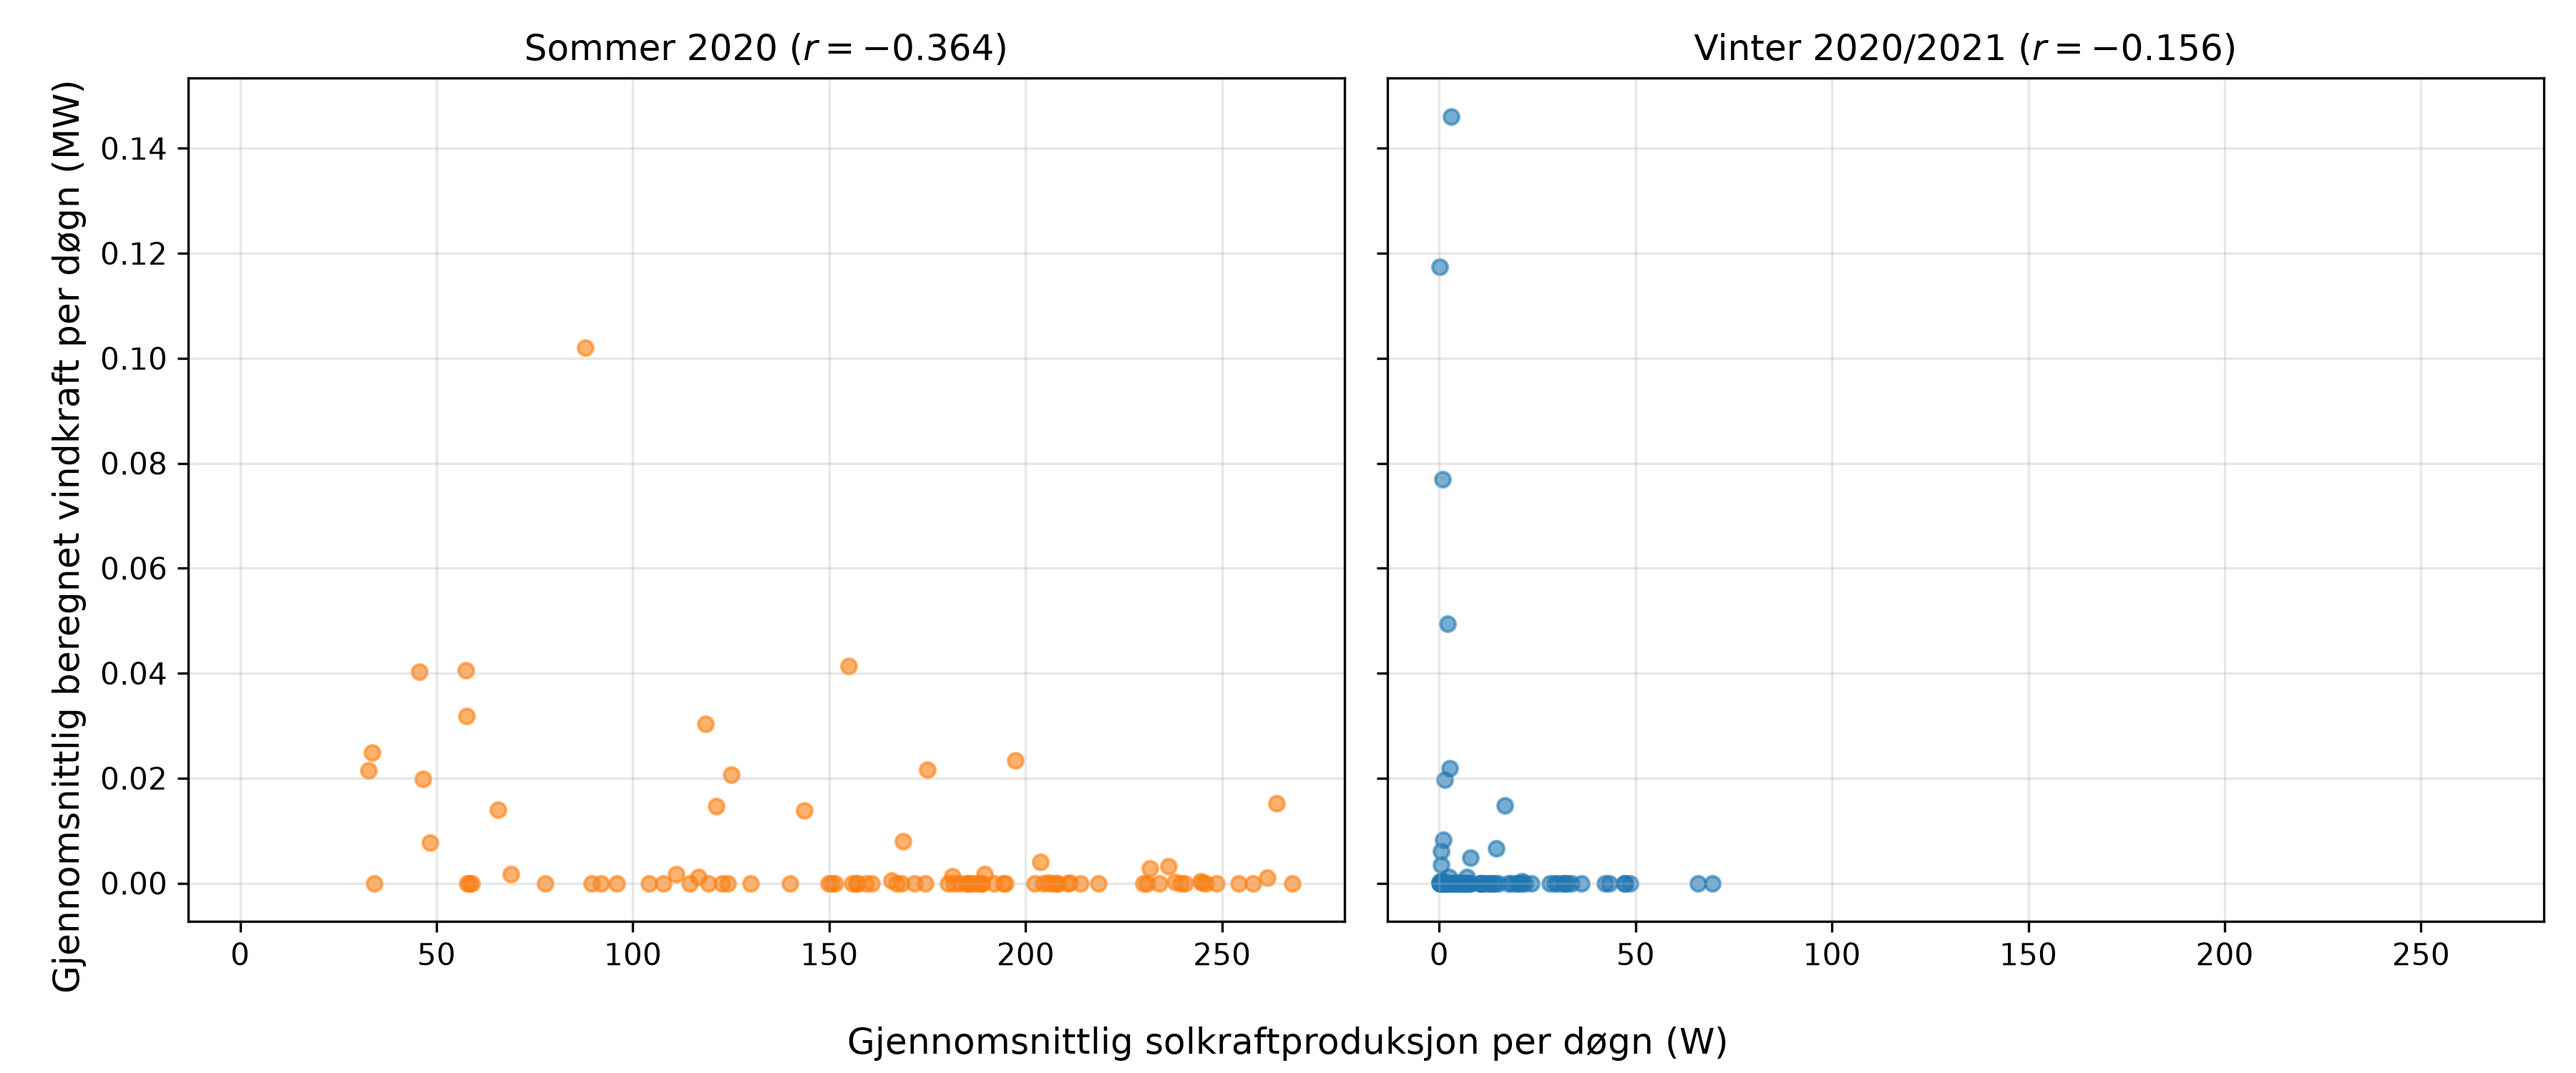
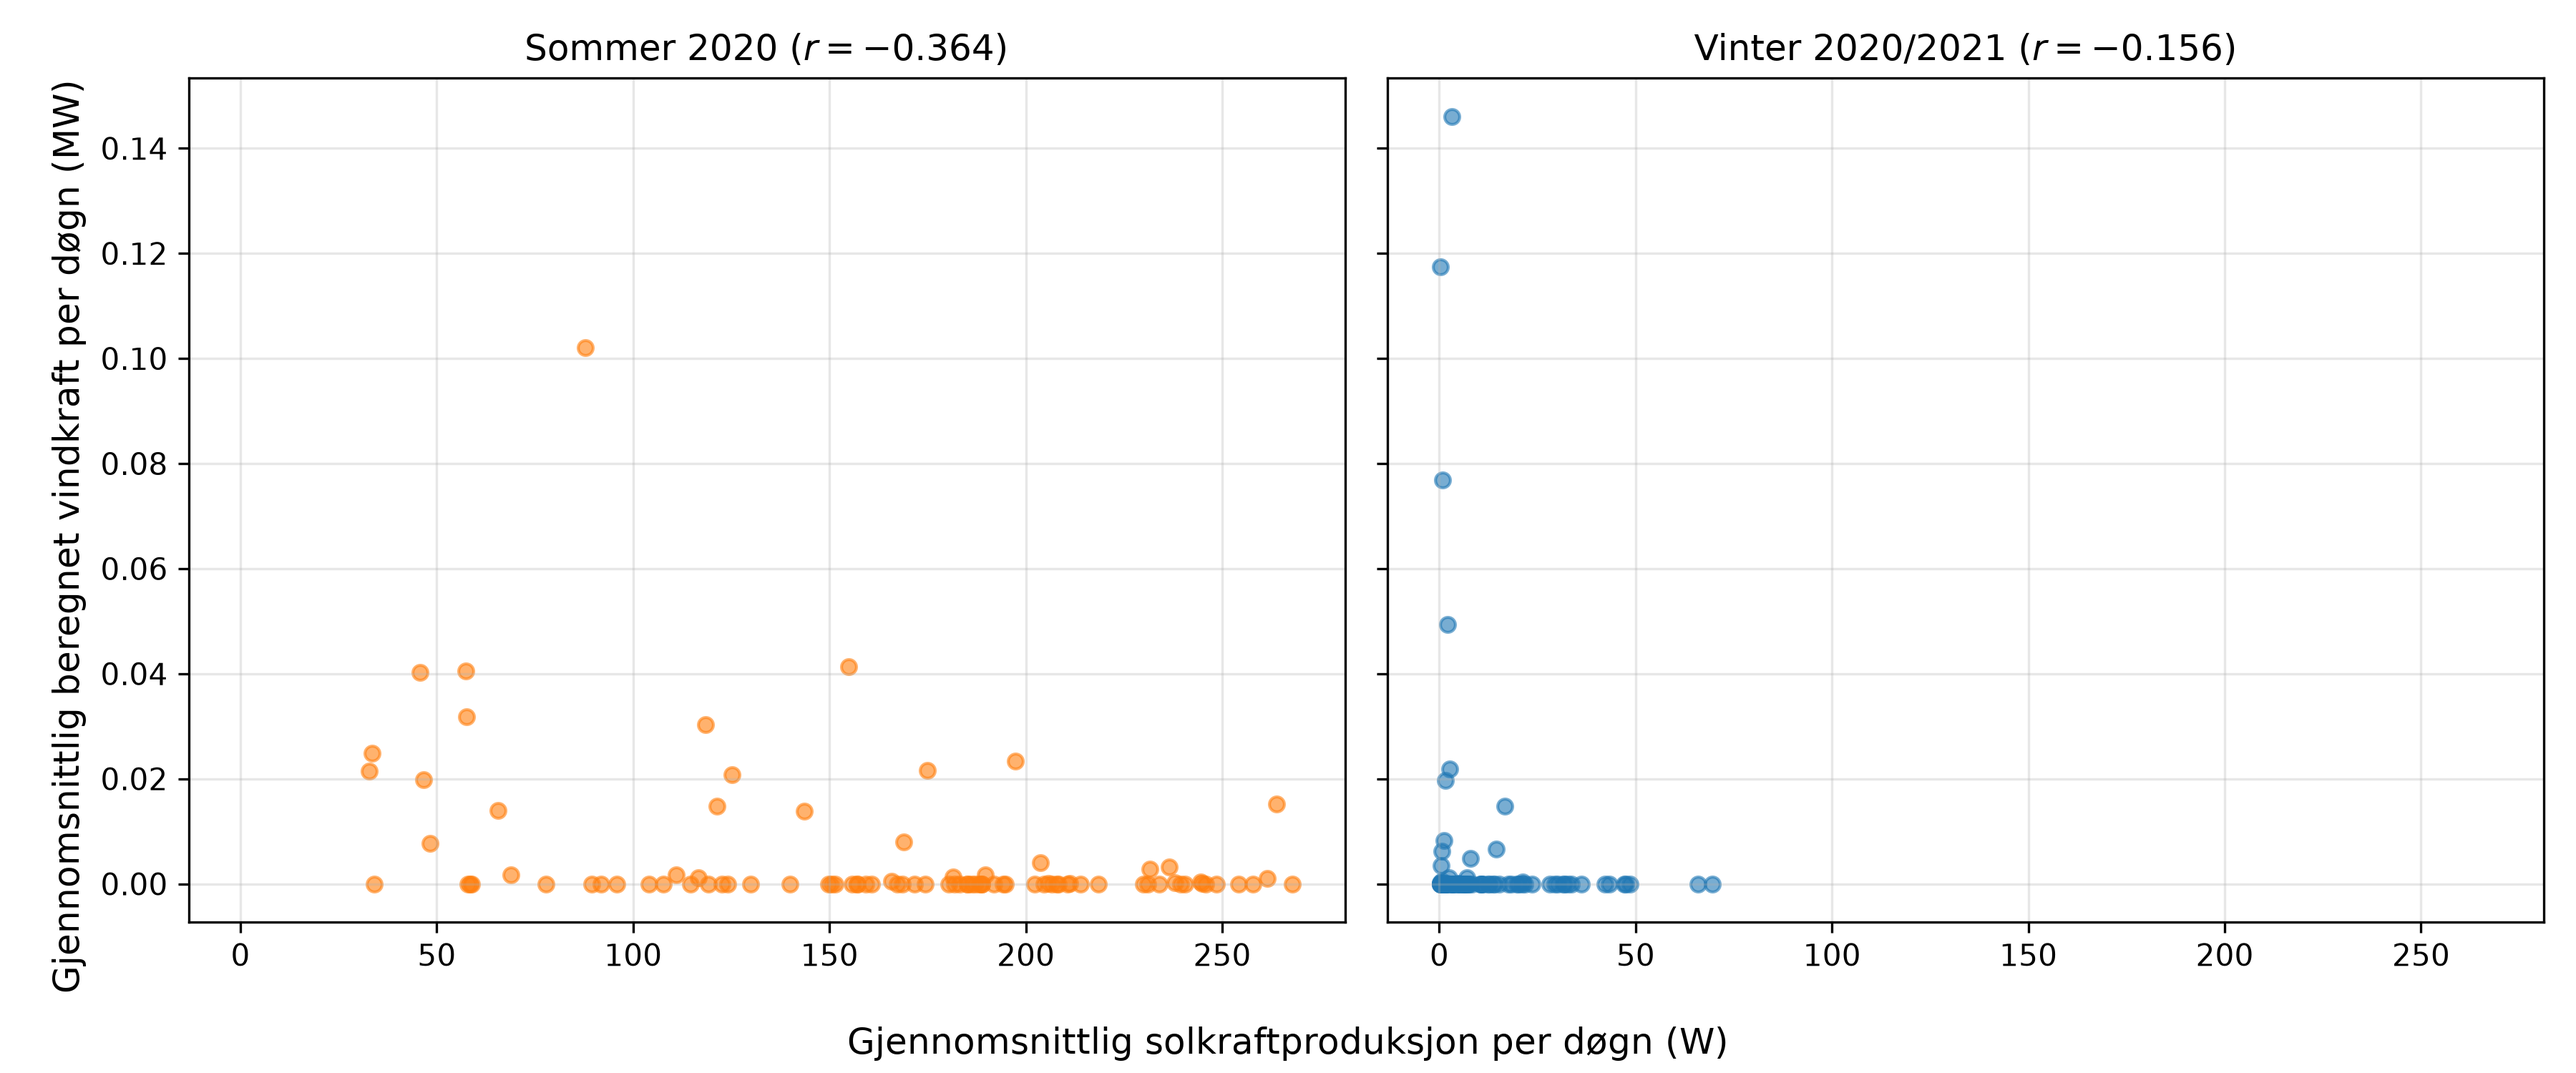
La til 10% vindhastighet

diff --git a/Prosjekt-ELK330/10%-hoyere-vind.py b/Prosjekt-ELK330/10%-hoyere-vind.py
@@ -1,0 +1,367 @@
+import pandas as pd
+import matplotlib.pyplot as plt
+
+
+# Leser inn PVGIS-data
+pvgis = pd.read_csv(
+    "PVGISBlindern2018-2021.csv",
+    skiprows=10,
+    engine="python"
+)
+
+
+# Beholder kun rader der time-kolonnen faktisk inneholder dato
+pvgis = pvgis[
+    pvgis["time"].astype(str).str.match(r"^\d{8}:\d{4}$")
+].copy()
+
+
+# Konverterer tidspunkt
+pvgis["time"] = pd.to_datetime(
+    pvgis["time"],
+    format="%Y%m%d:%H%M"
+)
+
+pvgis = pvgis.set_index("time")
+
+
+# PVGIS-tidspunktene behandles som UTC
+pvgis.index = pvgis.index.tz_localize("UTC")
+
+
+# Rund av til nærmeste hele time
+pvgis.index = pvgis.index.round("h")
+
+# Konverterer PV power til numeriske verdier
+pvgis["P"] = pd.to_numeric(pvgis["P"], errors="coerce")
+pvgis[["P"]].to_csv("solkraft_klargjort.csv")
+# Konverterer vindhastighet til numeriske verdier
+pvgis["WS10m"] = pd.to_numeric(pvgis["WS10m"], errors="coerce")
+
+
+
+# Parametere for vindturbin
+P_nominell = 3       # MW
+v_start = 3          # m/s
+v_nominell = 12      # m/s
+v_stopp = 25         # m/s
+
+
+# Beregner vindkraftproduksjon
+def vindkraft(v):
+
+    if pd.isna(v):
+        return float("nan")
+
+    if v < v_start:
+        return 0
+
+    elif v < v_nominell:
+        return P_nominell * (
+            (v**3 - v_start**3) /
+            (v_nominell**3 - v_start**3)
+        )
+
+    elif v <= v_stopp:
+        return P_nominell
+
+    else:
+        return 0
+
+
+vind_MW = pvgis["WS10m"].apply(vindkraft)
+vind_MW_pluss10 = (pvgis["WS10m"] * 1.10).apply(vindkraft)
+
+# Samler solinnstråling og vindkraft i ett datasett
+data = pd.concat(
+    [
+        pvgis["P"] / 1_000_000,
+        vind_MW,
+        vind_MW_pluss10
+    ],
+    axis=1,
+    keys=["Solkraftproduksjon", "Vindkraft", "Vindkraft_pluss10"]
+)
+
+
+# Sørger for at begge kolonnene inneholder tall
+data["Solkraftproduksjon"] = pd.to_numeric(
+    data["Solkraftproduksjon"],
+    errors="coerce"
+)
+
+data["Vindkraft"] = pd.to_numeric(
+    data["Vindkraft"],
+    errors="coerce"
+)
+
+
+# Fjerner manglende verdier
+data = data.dropna()
+
+
+# Kontrollerer datasettet
+print("\n--- Datakontroll ---")
+
+print("Antall observasjoner:", len(data))
+
+print("Antall manglende verdier:")
+print(data.isna().sum())
+
+print(
+    "Antall dupliserte tidspunkter:",
+    data.index.duplicated().sum()
+)
+
+print("Første tidspunkt:", data.index.min())
+print("Siste tidspunkt:", data.index.max())
+
+
+# Beregner korrelasjon for timesverdier
+korrelasjon_time = data["Solkraftproduksjon"].corr(
+    data["Vindkraft"]
+)
+
+print("\n--- Korrelasjon per time ---")
+print(korrelasjon_time)
+
+korrelasjon_time_pluss10 = data["Solkraftproduksjon"].corr(
+    data["Vindkraft_pluss10"]
+)
+
+print(f"Korrelasjon for opprinnelig vindhastighet: r = {korrelasjon_time:.4f}")
+print(f"Korrelasjon for 10 % høyere vindhastighet: r = {korrelasjon_time_pluss10:.4f}")
+print(f"Endring i r: {korrelasjon_time_pluss10 - korrelasjon_time:+.4f}")
+
+# Beregner daglig gjennomsnitt
+daglig_data = data.resample("D").mean()
+
+# Fjerner dager uten målinger
+daglig_data = daglig_data.dropna()
+daglig_data = data.resample("D").mean()
+
+antall_timer = data.resample("D").count()
+
+daglig_data = daglig_data[
+    (antall_timer["Solkraftproduksjon"] >= 18) &
+    (antall_timer["Vindkraft"] >= 18)
+]
+
+print("\n--- Daglige målinger ---")
+print(daglig_data.head())
+
+print("Antall dager:", len(daglig_data))
+
+
+# Beregner korrelasjon for dagsverdier
+korrelasjon_daglig = daglig_data["Solkraftproduksjon"].corr(
+    daglig_data["Vindkraft"]
+)
+
+print("\nDaglig korrelasjon:", korrelasjon_daglig)
+
+korrelasjon_daglig_pluss10 = daglig_data["Solkraftproduksjon"].corr(
+    daglig_data["Vindkraft_pluss10"]
+)
+
+print(f"Korrelasjon for opprinnelig vindhastighet: r = {korrelasjon_daglig:.4f}")
+print(f"Korrelasjon for 10 % høyere vindhastighet: r = {korrelasjon_daglig_pluss10:.4f}")
+print(f"Endring i r: {korrelasjon_daglig_pluss10 - korrelasjon_daglig:+.4f}")
+
+sommer = daglig_data.loc["2020-06-01":"2020-08-31"]
+vinter = daglig_data.loc["2020-12-01":"2021-02-28"]
+
+korrelasjon_sommer = sommer["Solkraftproduksjon"].corr(sommer["Vindkraft"])
+korrelasjon_vinter = vinter["Solkraftproduksjon"].corr(vinter["Vindkraft"])
+
+print(f"Sommer 2020: r = {korrelasjon_sommer:.3f} ({len(sommer)} dager)")
+print(f"Vinter 2020/2021: r = {korrelasjon_vinter:.3f} ({len(vinter)} dager)")
+
+# standardavvik for sommer og vinter
+standardavvik_sommer = sommer[["Solkraftproduksjon", "Vindkraft"]].std()
+standardavvik_vinter = vinter[["Solkraftproduksjon", "Vindkraft"]].std()
+
+print(f"Sommer 2020: Standardavvik = {standardavvik_sommer}")
+print(f"Vinter 2020/2021: Standardavvik = {standardavvik_vinter}")
+
+fig, (ax_sommer, ax_vinter) = plt.subplots(
+    1, 2, figsize=(12, 5), sharex=True, sharey=True
+)
+
+ax_sommer.scatter(
+    sommer["Solkraftproduksjon"] * 1_000_000,
+    sommer["Vindkraft"],
+    color="tab:orange",
+    alpha=0.6,
+    s=25
+)
+ax_sommer.set_title(f"Sommer 2020 ($r = {korrelasjon_sommer:.3f}$)")
+ax_sommer.grid(alpha=0.3)
+
+ax_vinter.scatter(
+    vinter["Solkraftproduksjon"] * 1_000_000,
+    vinter["Vindkraft"],
+    color="tab:blue",
+    alpha=0.6,
+    s=25
+)
+ax_vinter.set_title(f"Vinter 2020/2021 ($r = {korrelasjon_vinter:.3f}$)")
+ax_vinter.grid(alpha=0.3)
+
+fig.supxlabel("Gjennomsnittlig solkraftproduksjon per døgn (W)")
+fig.supylabel("Gjennomsnittlig beregnet vindkraft per døgn (MW)")
+
+fig.tight_layout()
+fig.savefig("PVGISanalyse/PVGIS_sommer_vinter.png", dpi=300)
+plt.show()
+
+# Scatterplot sommer: juni, julig, august 2020
+plt.scatter(
+    sommer["Solkraftproduksjon"], 
+    sommer["Vindkraft"],
+    alpha = 0.5,
+    s=12
+)
+
+plt.xlabel("Gjennomsnittlig solkraftproduksjon per døgn (MW)")
+plt.ylabel("Gjennomsnittlig beregnet vindkraft per døgn (MW)")
+plt.title("Sommer 2020: Solkraft mot beregnet vindkraft")
+plt.grid(alpha=0.3)
+plt.tight_layout()
+plt.savefig("Sommer2020_Solkraft_mot_vindkraftPVGIS.png", dpi=300)
+plt.show()
+
+# Scatterplot vinter: desember, januar, februar 2020/2021
+plt.scatter(
+    vinter["Solkraftproduksjon"], 
+    vinter["Vindkraft"],
+    alpha = 0.5,
+    s=12
+)
+
+plt.xlabel("Gjennomsnittlig solkraftproduksjon per døgn (MW)")
+plt.ylabel("Gjennomsnittlig beregnet vindkraft per døgn (MW)")
+plt.title("Vinter 2020/2021: Solkraft mot beregnet vindkraft")
+plt.grid(alpha=0.3)
+plt.tight_layout()
+plt.savefig("PVGISanalyse/Vinter2020_2021_Solkraft_mot_vindkraftPVGIS.png", dpi=300)
+plt.show()
+
+# Plotter solinnstråling mot vindkraft
+plt.figure(figsize=(9, 6))
+
+plt.scatter(
+    data["Solkraftproduksjon"],
+    data["Vindkraft"],
+    alpha=0.35,
+    s=12
+)
+
+plt.xlabel("Solkraftproduksjon (MW)")
+plt.ylabel("Beregnet vindkraftproduksjon (MW)")
+
+plt.title(
+    "Solkraftproduksjon mot vindkraftproduksjon (2018–2021)"
+)
+
+plt.grid(alpha=0.3)
+plt.tight_layout()
+plt.savefig("PVGISanalyse/Solkraft_mot_vindkraftPVGIS.png", dpi=300)
+plt.show()
+
+# Plotter daglig solinnstråling mot daglig vindkraft
+plt.figure(figsize=(9, 6))
+
+plt.scatter(
+    daglig_data["Solkraftproduksjon"],
+    daglig_data["Vindkraft"],
+    alpha=0.5,
+    s=15
+)
+
+plt.xlabel("Daglig gjennomsnittlig Solkraftproduksjon (MW)")
+plt.ylabel("Daglig gjennomsnittlig vindkraftproduksjon (MW)")
+
+plt.title(
+    "Daglig Solkraftproduksjon mot vindkraftproduksjon (2018–2021)"
+)
+
+plt.grid(alpha=0.3)
+plt.tight_layout()
+plt.savefig("PVGISanalyse/Daglig_solkraft_mot_vindkraftPVGIS.png", dpi=300)
+plt.show()
+
+# Konverterer solinnstråling (G(i)) til numeriske verdier
+pvgis["G(i)"] = pd.to_numeric(
+    pvgis["G(i)"],
+    errors="coerce"
+)
+
+
+# Plotter solinnstråling gjennom årene
+plt.figure(figsize=(14, 6))
+
+plt.plot(
+    pvgis.index,
+    pvgis["G(i)"],
+    linewidth=0.5
+)
+
+plt.xlabel("Tid")
+plt.ylabel("Solinnstråling (W/m²)")
+
+plt.title(
+    "Solinnstråling gjennom perioden 2018–2021"
+)
+
+plt.grid(alpha=0.3)
+plt.tight_layout()
+
+plt.savefig("PVGISanalyse/Solinnstraling_2018_2021.png", dpi=300)
+
+plt.show()
+
+
+plt.figure(figsize=(14, 6))
+
+plt.plot(
+    pvgis.index,
+    pvgis["WS10m"],
+    linewidth=0.5
+)
+
+plt.xlabel("Tid")
+plt.ylabel("Vindhastighet (m/s)")
+
+plt.title(
+    "Vindhastighet gjennom perioden 2018–2021"
+)
+
+plt.grid(alpha=0.3)
+plt.tight_layout()
+
+plt.savefig("PVGISanalyse/Vindhastighet_2018_2021.png", dpi=300)
+
+plt.show()
+
+plt.figure(figsize=(14, 6))
+
+plt.plot(
+    data["Vindkraft"].index,
+    data["Vindkraft"],
+    linewidth=0.5
+)
+
+plt.xlabel("Tid")
+plt.ylabel("Vindproduksjon (MW)")
+
+plt.title(
+    "Vindproduksjon gjennom perioden 2018–2021"
+)
+
+plt.grid(alpha=0.3)
+plt.tight_layout()
+
+plt.savefig("PVGISanalyse/Vindproduksjon_2018_2021.png", dpi=300)
+
+plt.show()
